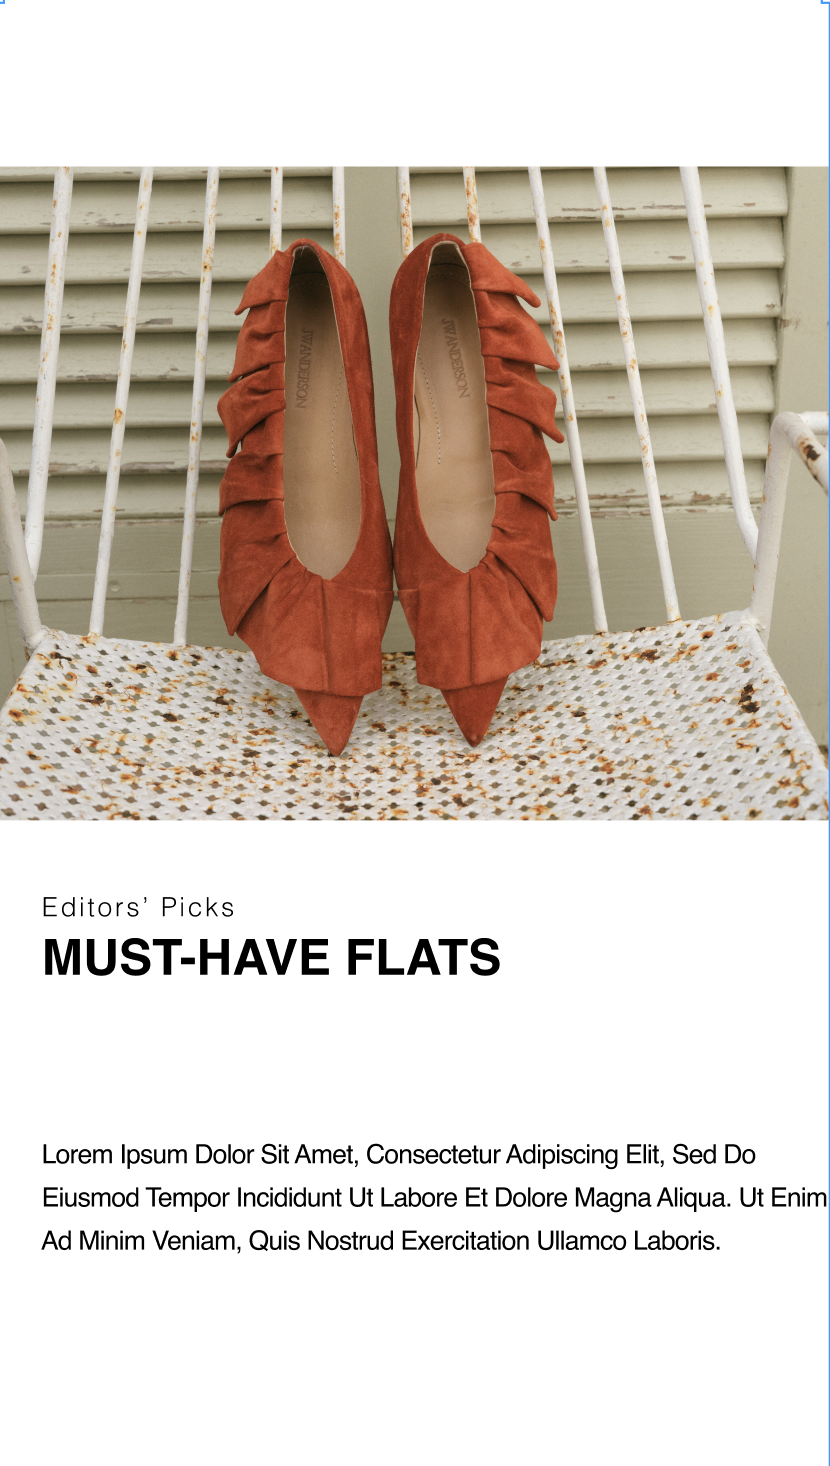
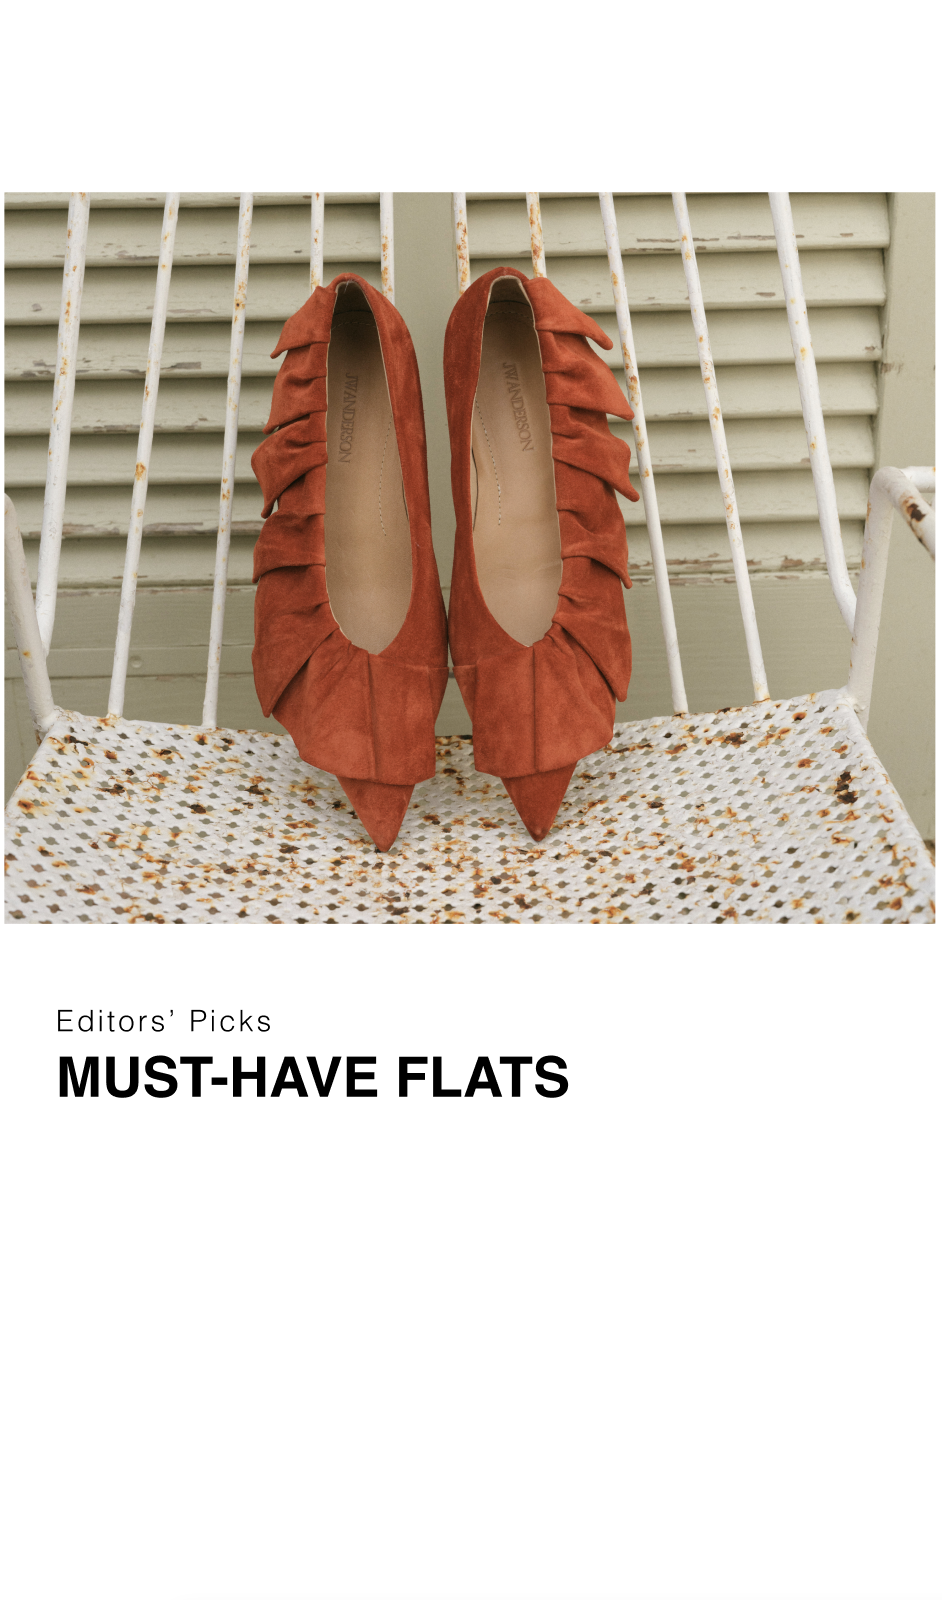
Add full-image promo card and new assets
Replace the arrivals promo card with a full-image promo card and update styles accordingly. index1.html and index1_1.html now use a full-image container (assets/option5/na/na0.png) and several full-bleed banners were switched to new collages (mens_collage_2.png, womens_collage_1.png). style.css removes the old .arrivals-card--promo rules and adds .arrivals-card--full-image, .full-image-container, overlay and image fit/transition styles. Added multiple new brandingModule and collage image assets (bm_image6-10, mens_collage_2, womens_collage_1, na0) and .DS_Store placeholders; removed several legacy screenshot files from brandingModule.

Changed region(s): [[0.0, 0.0, 1.0, 1.0], [0.0602, 0.7674, 0.9036, 0.8595], [0.0301, 0.6139, 0.6024, 0.706]]

diff --git a/saksUX/index1.html b/saksUX/index1.html
@@ -193,11 +193,13 @@
     <div class="arrivals-track" id="arrivalsTrack">
 
       <!-- Card 1 -->
-      <div class="arrivals-card arrivals-card--promo">
-        <div class="promo-content">
-          <h2 class="promo-text">FRESH<br>FINDS<br>OF THE<br>WEEK</h2>
-          <a href="#" class="promo-link">SHOP NEW ARRIVALS</a>
-        </div>
+      <div class="arrivals-card arrivals-card--full-image">
+        <a href="#" class="full-image-container">
+          <img src="assets/option5/na/na0.png" alt="Collection Showcase">
+          <!-- <div class="full-image-overlay">
+            <span class="overlay-cta">VIEW THE LOOKBOOK</span>
+          </div> -->
+        </a>
       </div>
 
       <div class="arrivals-card">
@@ -375,7 +377,7 @@
 <!-- ─── Full Bleed Single Banner ─────────────────────────────── -->
 <section class="full-bleed-banner">
   <div class="full-bleed-img-wrap">
-    <img src="assets/option5/mens_collage 1.png" alt="Full bleed banner"
+    <img src="assets/option5/mens_collage_2.png" alt="Full bleed banner"
       onerror="this.style.display='none';this.nextElementSibling.style.display='block'">
     <div class="full-bleed-placeholder"></div>
   </div>
@@ -387,35 +389,35 @@
 
     <div class="product-card">
       <div class="product-img-wrap">
-        <img src="assets/option5/brandingModule/bm_image1.png" alt="Relaxed Fit Shirts">
+        <img src="assets/option5/brandingModule/bm_image6.png" alt="Relaxed Fit Shirts">
       </div>
       <p class="product-name">Relaxed Fit Shirts</p>
     </div>
 
     <div class="product-card">
       <div class="product-img-wrap">
-        <img src="assets/option5/brandingModule/bm_image2.png" alt="Cargo Shorts">
+        <img src="assets/option5/brandingModule/bm_image7.png" alt="Cargo Shorts">
       </div>
       <p class="product-name">Cargo Shorts</p>
     </div>
 
     <div class="product-card">
       <div class="product-img-wrap">
-        <img src="assets/option5/brandingModule/bm_image3.png" alt="Tote Bags">
+        <img src="assets/option5/brandingModule/bm_image8.png" alt="Tote Bags">
       </div>
       <p class="product-name">Tote Bags</p>
     </div>
 
     <div class="product-card">
       <div class="product-img-wrap">
-        <img src="assets/option5/brandingModule/bm_image4.png" alt="Boat Shoes">
+        <img src="assets/option5/brandingModule/bm_image9.png" alt="Boat Shoes">
       </div>
       <p class="product-name">Boat Shoes</p>
     </div>
 
     <div class="product-card">
       <div class="product-img-wrap">
-        <img src="assets/option5/brandingModule/bm_image5.png" alt="Aviator Sunglasses">
+        <img src="assets/option5/brandingModule/bm_image10.png" alt="Aviator Sunglasses">
       </div>
       <p class="product-name">Aviator Sunglasses</p>
     </div>
@@ -426,7 +428,7 @@
 <!-- ─── Full Bleed Single Banner ─────────────────────────────── -->
 <section class="full-bleed-banner">
   <div class="full-bleed-img-wrap">
-    <img src="assets/option5/chloe_1.png" alt="Full bleed banner"
+    <img src="assets/option5/womens_collage_1.png" alt="Full bleed banner"
       onerror="this.style.display='none';this.nextElementSibling.style.display='block'">
     <div class="full-bleed-placeholder"></div>
   </div>

diff --git a/saksUX/style.css b/saksUX/style.css
@@ -1865,52 +1865,6 @@ ul {
 
 /* --- NEW ARRIVALS: REFINED LAYOUT --- */
 
-/* --- NEW PROMO CARD (ADDITION) --- */
-.arrivals-card--promo {
-  background: #000 !important; /* Solid black as per your screenshot */
-  display: flex;
-  align-items: center;
-  justify-content: center;
-  flex: 0 0 calc((100vw - 40px - (5 * 12px)) / 6); /* Keeps 6-card width */
-  aspect-ratio: 3 / 4; 
-  cursor: pointer;
-}
-
-.promo-content {
-  display: flex;
-  flex-direction: column;
-  justify-content: center;
-  align-items: center;
-  text-align: center;
-  color: #ffffff;
-  padding: 20px;
-}
-
-.promo-text {
-  font-family: var(--font-sans); /* Barlow Condensed */
-  font-size: 38px;
-  font-weight: 700;
-  line-height: 1.1;
-  letter-spacing: 0.05em;
-  text-transform: uppercase;
-  margin-bottom: 60px; /* Large vertical gap like your image */
-}
-
-.promo-link {
-  font-family: var(--font-sans);
-  font-size: 12px;
-  font-weight: 700;
-  text-transform: uppercase;
-  text-decoration: underline;
-  text-underline-offset: 5px;
-  color: #fff;
-  letter-spacing: 0.1em;
-}
-
-.arrivals-card--promo:hover .promo-link {
-  opacity: 0.7;
-}
-
 .arrivals-section {
   width: 100vw;
   position: relative;
@@ -2254,4 +2208,56 @@ ul {
   letter-spacing: 0.05em;
   text-transform: uppercase;
   color: #666;
+}
+
+/* --- FULL-IMAGE PROMO CARD --- */
+.arrivals-card--full-image {
+  position: relative;
+  overflow: hidden;
+  /* Matches the 6-card grid calculation from your previous arrivals */
+  flex: 0 0 calc((100vw - 40px - (5 * 12px)) / 6); 
+  aspect-ratio: 3 / 4; 
+  cursor: pointer;
+  background: #000;
+}
+
+.full-image-container {
+  display: block;
+  width: 100%;
+  height: 100%;
+  text-decoration: none;
+}
+
+.full-image-container img {
+  width: 100%;
+  height: 100%;
+  /* FORCES THE IMAGE TO FIT EDGE-TO-EDGE */
+  object-fit: cover; 
+  display: block;
+  transition: transform 0.8s cubic-bezier(0.2, 1, 0.3, 1);
+}
+
+
+
+/* Optional text overlay at the bottom */
+.full-image-overlay {
+  position: absolute;
+  bottom: 0;
+  left: 0;
+  width: 100%;
+  padding: 30px 20px;
+  background: linear-gradient(to top, rgba(0,0,0,0.4) 0%, transparent 100%);
+  display: flex;
+  justify-content: center;
+}
+
+.overlay-cta {
+  color: #ffffff;
+  font-family: var(--font-sans); /* Barlow Condensed */
+  font-size: 11px;
+  font-weight: 700;
+  letter-spacing: 0.1em;
+  text-transform: uppercase;
+  text-decoration: underline;
+  text-underline-offset: 4px;
 }

diff --git a/saksUX/index1_1.html b/saksUX/index1_1.html
@@ -192,12 +192,14 @@
   <div class="arrivals-track-wrap" id="arrivalsWrap">
     <div class="arrivals-track" id="arrivalsTrack">
 
-      <!-- Card 1 -->
-      <div class="arrivals-card arrivals-card--promo">
-        <div class="promo-content">
-          <h2 class="promo-text">FRESH<br>FINDS<br>OF THE<br>WEEK</h2>
-          <a href="#" class="promo-link">SHOP NEW ARRIVALS</a>
-        </div>
+       <!-- Card 1 -->
+       <div class="arrivals-card arrivals-card--full-image">
+        <a href="#" class="full-image-container">
+          <img src="assets/option5/na/na0.png" alt="Collection Showcase">
+          <!-- <div class="full-image-overlay">
+            <span class="overlay-cta">VIEW THE LOOKBOOK</span>
+          </div> -->
+        </a>
       </div>
 
       <div class="arrivals-card">
@@ -209,6 +211,7 @@
             <i data-lucide="heart"></i>
           </button>
         </div>
+
         <div class="arrivals-info">
           <p class="arrivals-brand">ALICE + OLIVIA</p>
           <p class="arrivals-name">Hana Floral Stretch-Cotton Midi-Dress</p>
